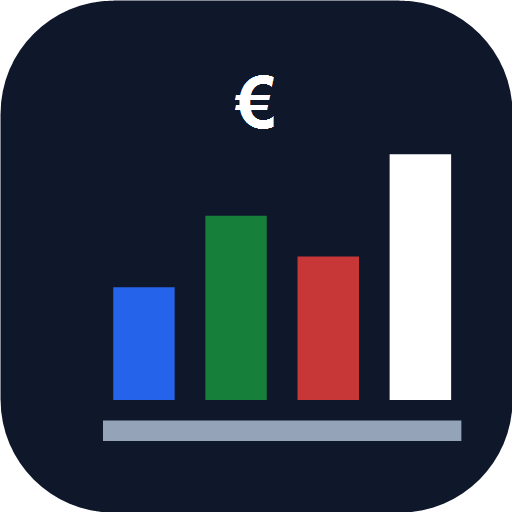
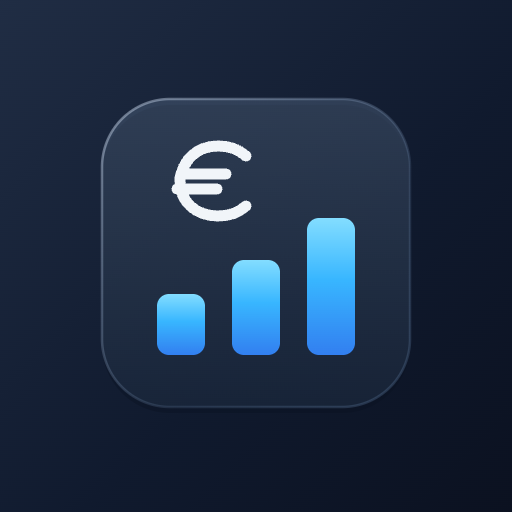
Renovar el icono de Mis Finanzas

diff --git a/sw.js b/sw.js
@@ -2,7 +2,7 @@
 // y también sin conexión. Los datos (Firestore), el login (Google) y las cotizaciones (prices.json) nunca pasan por aquí.
 //
 // Sube la versión de CACHE cada vez que cambie la lista PRECACHE (por ejemplo al actualizar Chart.js o Firebase).
-const CACHE = "finanzas-v4";
+const CACHE = "finanzas-v5";
 const PRECACHE = [
   "./",
   "./index.html",
